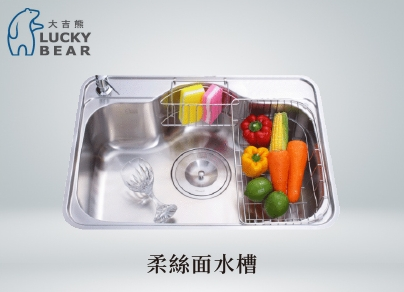
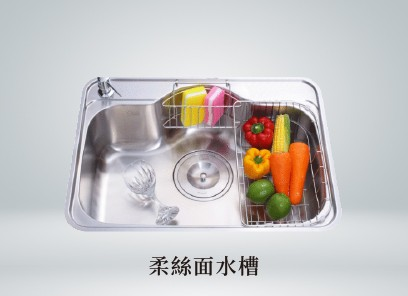
更新建材列表呈現+廚具換圖

diff --git a/src/scss/_floor.scss b/src/scss/_floor.scss
@@ -153,31 +153,31 @@
                                     }
     
                                     .entry-gate {
-                                        left: 44%;
-                                        top: 36%;
+                                        left: 45.5%;
+                                        top: 35%;
                                     }
                                     .reading-room{
-                                        left: 57.3%;
-                                        top: 34%;
+                                        left: 58.2%;
+                                        top: 32%;
                                     }
                                     .kitchen {
-                                        left: 20.5%;
-                                        top: 35%;
+                                        left: 23%;
+                                        top: 34%;
                                     }
     
                                     .gym{
-                                        left: 27%;
-                                        top: 56.1%;
+                                        left: 29%;
+                                        top: 53%;
                                     }
     
                                     .space-1f {
-                                        left: 44%;
-                                        top: 56%;                                    
+                                        left: 45%;
+                                        top: 55%;                                    
                                     }
 
                                     .space-1f2 {
-                                        left: 20%;
-                                        top: 19%;                                   
+                                        left: 22%;
+                                        top: 19%;                                  
                                     }
     
     

diff --git a/src/scss/_materials.scss b/src/scss/_materials.scss
@@ -62,18 +62,50 @@
                 position: absolute;
                 background-color: rgba(0, 0, 0, 0.15);
             }
+            
             .logo{
                 position: absolute;
-                top: auto;
-                left: auto;
-                bottom: 3%;
-                right: 5%;
+                right: 0;
+                bottom: 0;
+                left: 0;
+                top: 0;
+                margin: auto;
                 width: auto;
                 height: 8%;
                 z-index: 1;
+                pointer-events: none;
             }
+
+            &:nth-of-type(1) .logo{
+                height: 12%;
+            }
+            &:nth-of-type(2) .logo{
+                height: 11%;
+            }
+            &:nth-of-type(3) .logo{
+                height: 10%;
+            }
+            &:nth-of-type(4) .logo{
+                height: 18%;
+            }
+            &:nth-of-type(5) .logo{
+                height: 14%;
+            }
+            &:nth-of-type(6) .logo{
+                height: 11%;
+            }
+            &:nth-of-type(7) .logo{
+                height: 14%;
+            }
+            &:nth-of-type(8) .logo{
+                height: 18%;
+            }
+            &:nth-of-type(9) .logo{
+                height: 8%;
+            }
+
             .thumbBox{
-                filter: brightness(1);
+                filter: brightness(0.7);
                 height: 100%;
             }
         }

diff --git a/src/component/materials/bathroom.js b/src/component/materials/bathroom.js
@@ -130,7 +130,7 @@ export default function Page() {
                         <div className='banner_box'>
                           <FancyBox2 className='banner' thumbUrl={require('@/img/materials/bathroom/bathroom4@2x.jpg').default}>
                             <div className='flex_box'>
-                                <div className='left' style={{flex:'1 1 15%'}}><img style={{padding:'10vw 3vw'}} src={require("@/img/materials/bathroom/txt4_1@2x.png").default} /></div>
+                                <div className='left' style={{flex:'1 1 15%'}}><img style={{padding:'8vw 3vw'}} src={require("@/img/materials/bathroom/txt4_1@2x.png").default} /></div>
                                 <div className='right'><img src={require("@/img/materials/bathroom/txt4_2@2x.png").default} /></div>
                             </div>
                           </FancyBox2>
